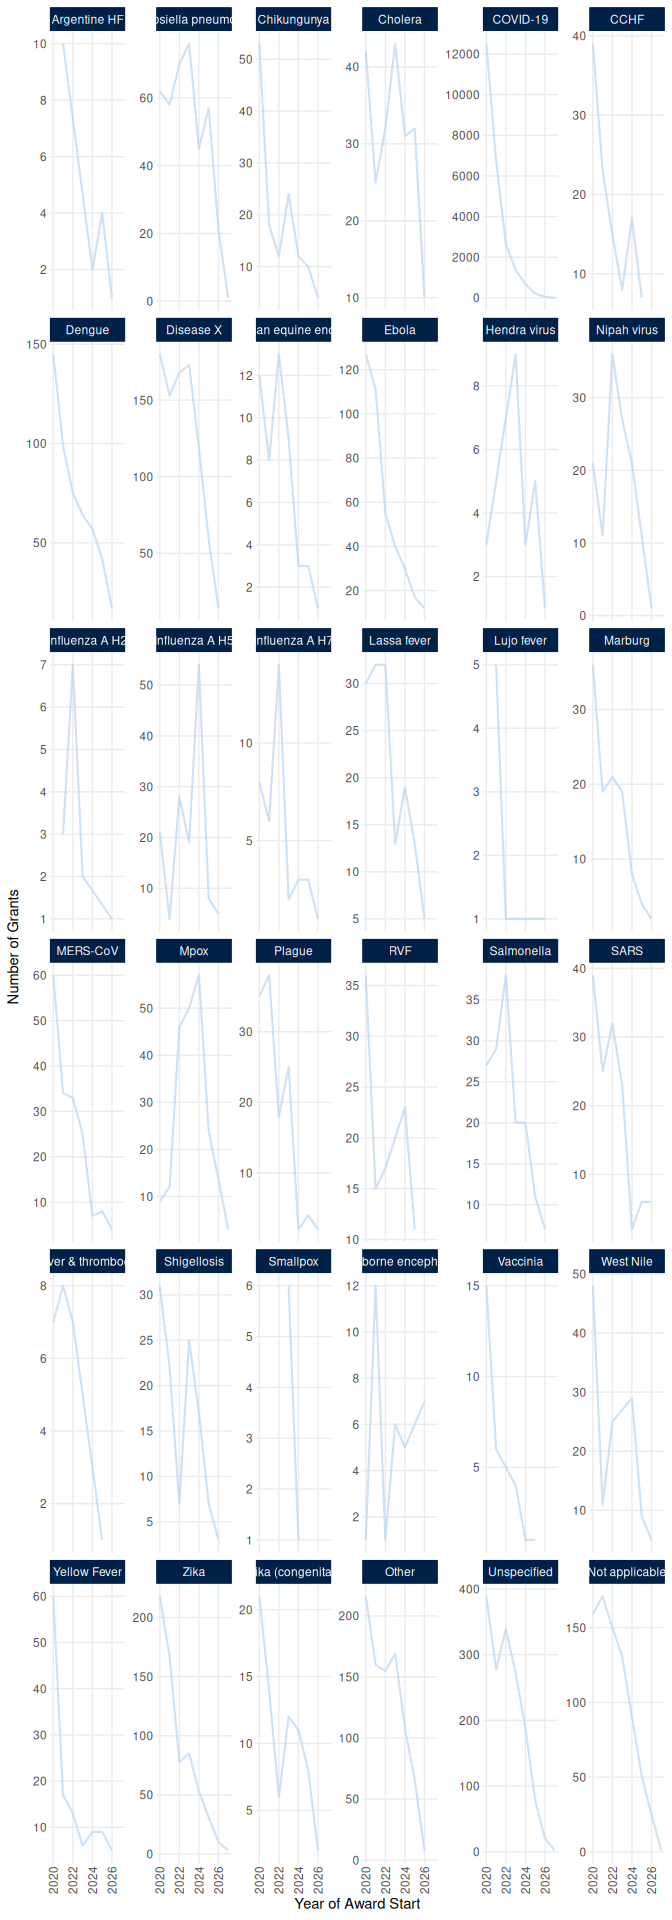
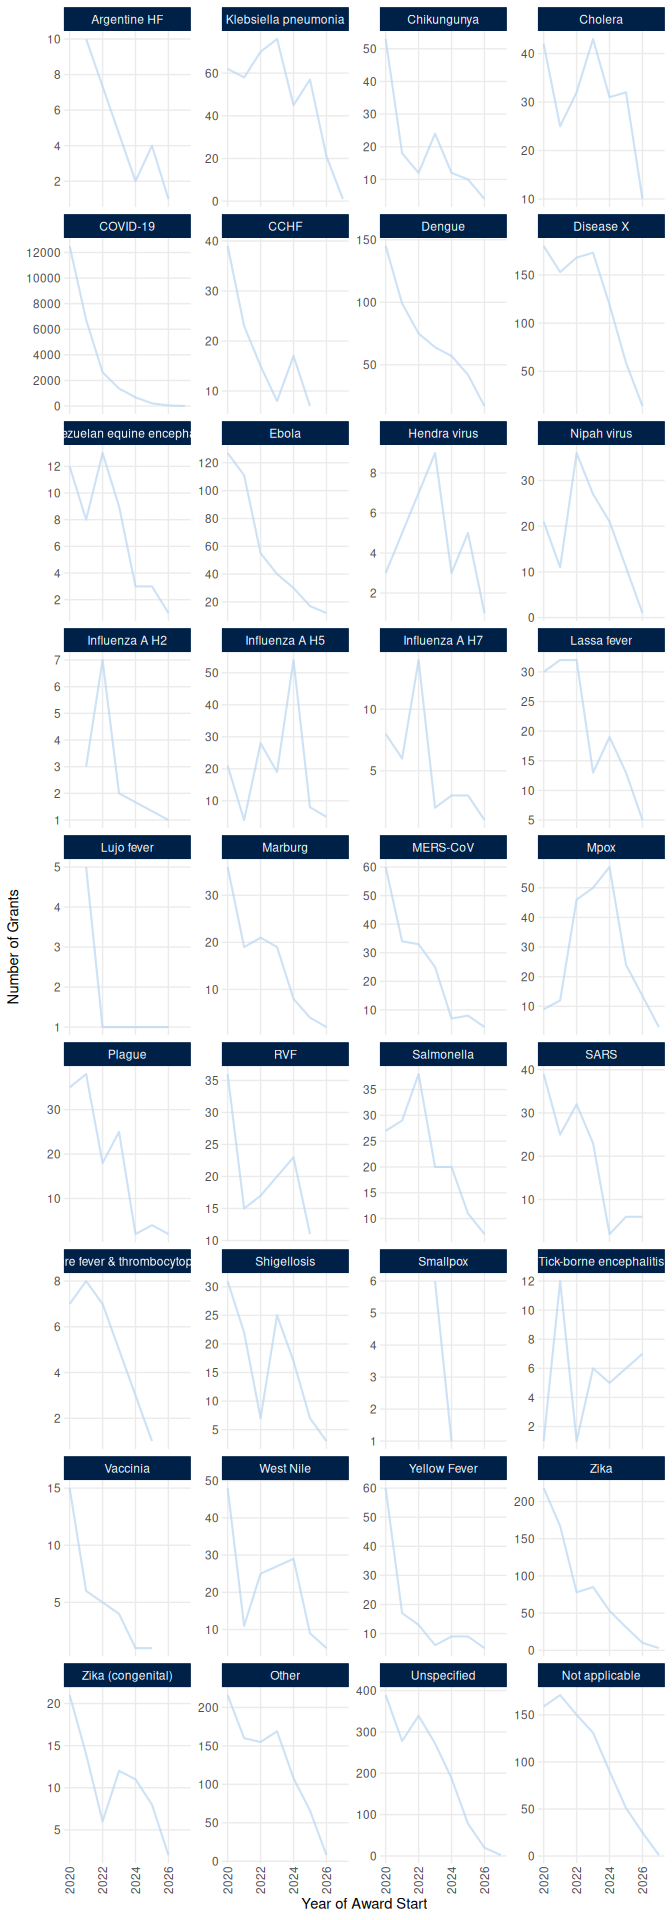
update README

diff --git a/README.md b/README.md
@@ -280,7 +280,7 @@ pact_download_website(path = tempdir())
 
 which will return the path to the downloaded dataset:
 
-    #> [1] "/tmp/RtmpwuflPU/pandemic-pact-grants.csv"
+    #> [1] "/tmp/Rtmp8jYfzf/pandemic-pact-grants.csv"
 
 ### Read the Pandemic PACT tracker dataset from the website
 